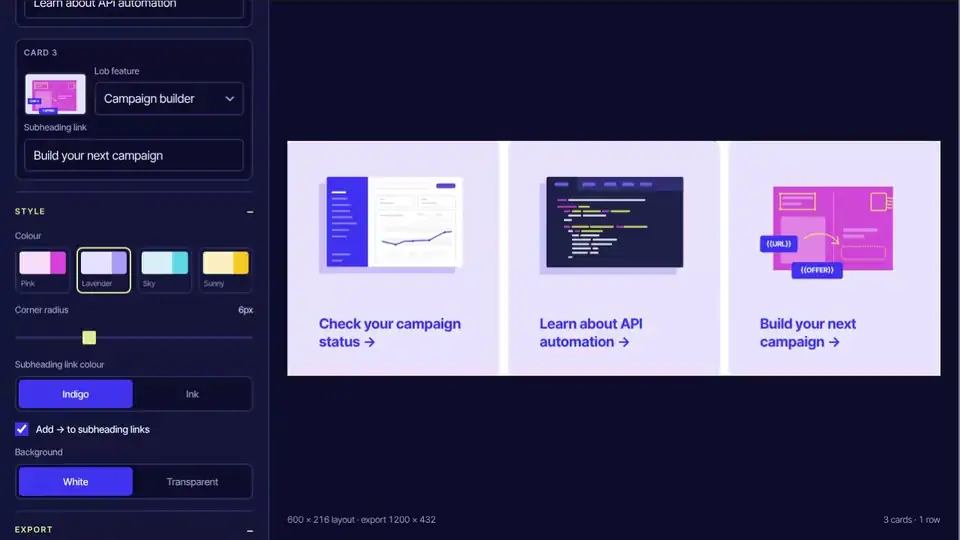
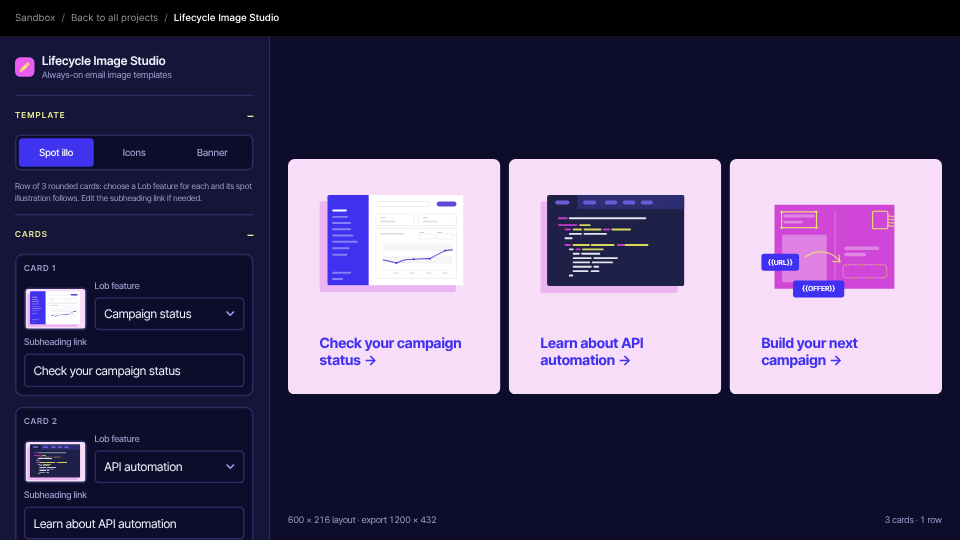
Default to a transparent background so the preview has no white behind the cards
Claude-Session: https://claude.ai/code/session_01AHeBe1YrHzQM3r24NnAYnr

diff --git a/lifecycle-image-engine/index.html b/lifecycle-image-engine/index.html
@@ -153,7 +153,7 @@ select option{background:var(--ink);color:var(--text)}
         <label class="check" data-show="spot icon"><input type="checkbox" data-key="arrow"> Add → to subheading links</label>
         <div>
           <span class="lbl">Background</span>
-          <div class="seg" data-key="bgMode"><button data-v="white">White</button><button data-v="clear">Transparent</button></div>
+          <div class="seg" data-key="bgMode"><button data-v="clear">Transparent</button><button data-v="white">White</button></div>
         </div>
       </div>
     </details>
@@ -217,7 +217,7 @@ const ICON_FEATURES = [
 ];
 
 const DEFAULTS = {
-  tpl:'spot', cols:3, theme:'pink', radius:6, linkColor:'indigo', arrow:true, bgMode:'white',
+  tpl:'spot', cols:3, theme:'pink', radius:6, linkColor:'indigo', arrow:true, bgMode:'clear',
   featSpot:[0,1,2], featIcon:[0,1,2],
   txtSpot:SPOT_FEATURES.map(f=>f.text),
   txtIcon:ICON_FEATURES.map(f=>f.text),
@@ -481,6 +481,7 @@ function render(ctx,S,sc,opts={}){
   ctx.clearRect(0,0,Math.ceil(cw*sc)+2,Math.ceil(ch*sc)+2);
   ctx.setTransform(sc,0,0,sc,-ox*sc,-oy*sc);
   if(S.bgMode==='white'||opts.forceWhite){ctx.fillStyle='#fff';ctx.fillRect(ox,oy,cw,ch)}
+  if(L.tpl==='banner'&&opts.preview&&S.bgMode==='clear'){ctx.fillStyle='#fff';ctx.fillRect(L.tile.w,0,L.W-L.tile.w,L.H)}   // preview only: keeps the dark placeholder text legible
   if(L.tpl==='banner')drawBanner(ctx,S,L,opts);
   else L.cards.forEach(k=>drawCard(ctx,S,L,k));
   if(L.tpl==='banner'&&opts.preview&&!S.bText){
@@ -573,7 +574,6 @@ function syncUI(){
   buildSlots(); syncSlots();
   const d=outDims();
   $('#dlLabel').textContent=`${d.w} × ${d.h} ${state.fmt.toUpperCase()}`;
-  cv.classList.toggle('chk',state.bgMode==='clear'&&state.fmt!=='jpg');
 }
 function exportBox(){
   const L=layout(state);
